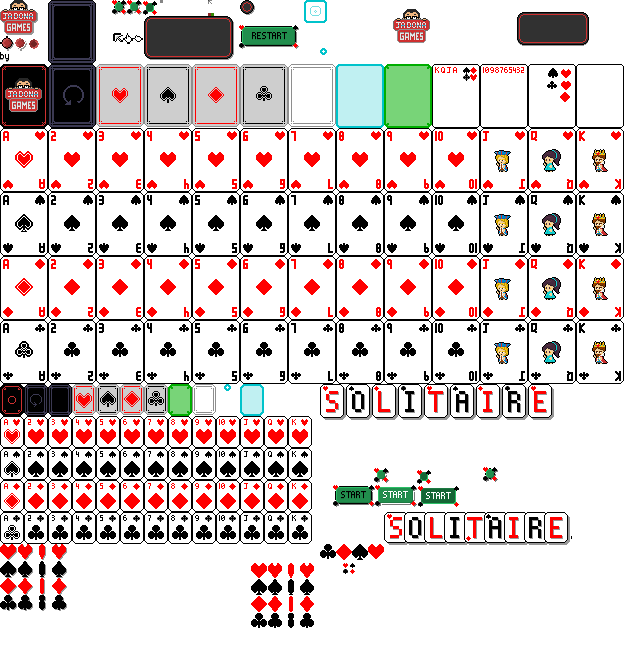
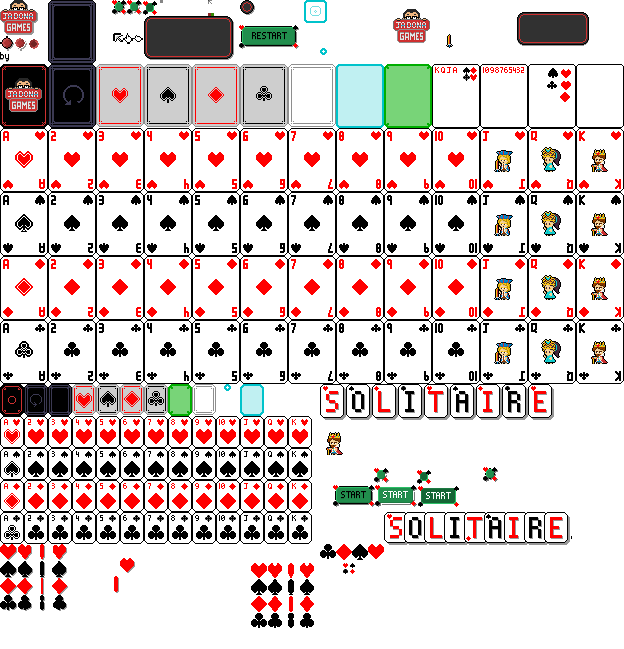
MAJ

diff --git a/input.js b/input.js
@@ -1695,7 +1695,7 @@ if (Input.MOUSE_CLICK) {
             const mouseY = e.layerY / SCALE_Y;
     
             // if (MainMenu.state != MainMenu.STATE.Transition && Game1.currentState != Game1.STATE.Transition) {
-            if (mainState === MAIN_STATE.Game) { //! GAME1 ---------------------
+            if (mainState === MAIN_STATE.Game) { //! GAME ---------------------
 
                 if (Game.bDeckHover) {
                     if (Game.lists["deck"].length > 0) {
@@ -1823,7 +1823,7 @@ if (Input.MOUSE_CLICK) {
                                         speed += 0.01;
                                         Game.movingList.push(newSprite);
                                         
-                                        if (count === nbToPop) {
+                                        if (count === nbToPop && Game.currentGameType !== Game.GAME_TYPE.Normal) {
                                             let kanjiSprite = new Sprite({ w: 46, h: 38 }, 1, 13, newSprite, "mcc"); //? Moving Card Child
                                             kanjiSprite.addAnimation("normal", { x: 336, y: 16});
                                             kanjiSprite.changeAnimation("normal");

diff --git a/main.js b/main.js
@@ -1,7 +1,3 @@
-/*
-Dessins for JQK
-*/
-
 let canvas = document.getElementById("canvas");
 canvas.style.fontKerning = "none";
 canvas.style.textRendering = "optimizeSpeed";
@@ -273,8 +269,6 @@ function init() {
     // ARROWS.changeAnimation("normal");
     // MAIN_SPRITE_LIST.push(ARROWS.getSprite());
 
-
-    toast("width: " + windowWidth);
 
     Tango.init();
     Kanji.init();
